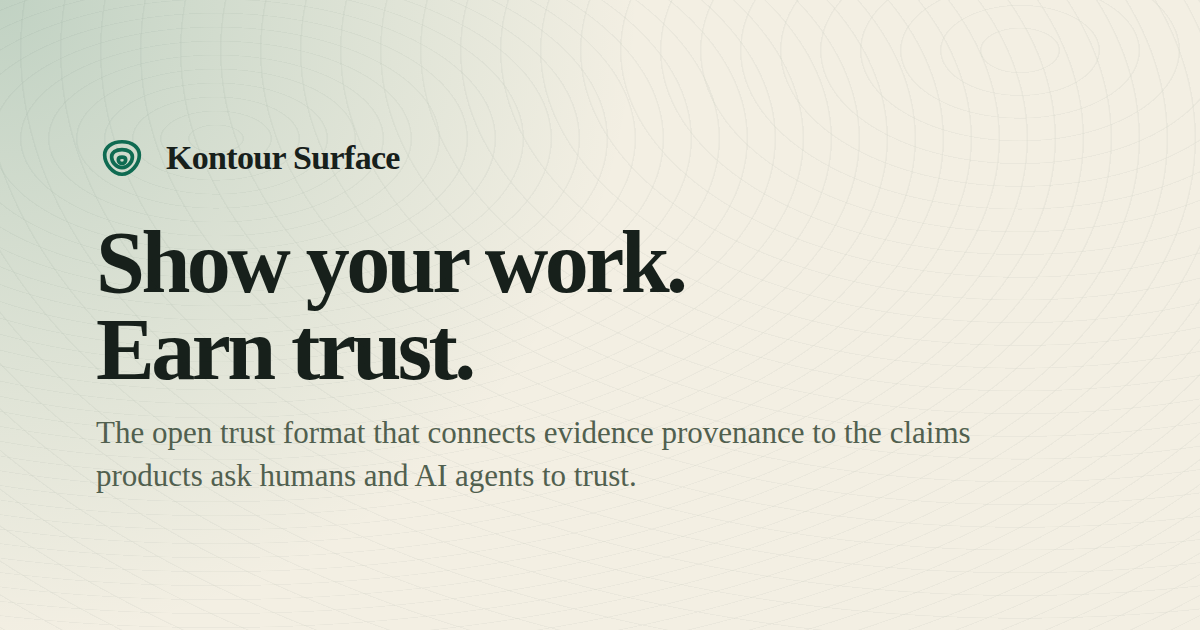
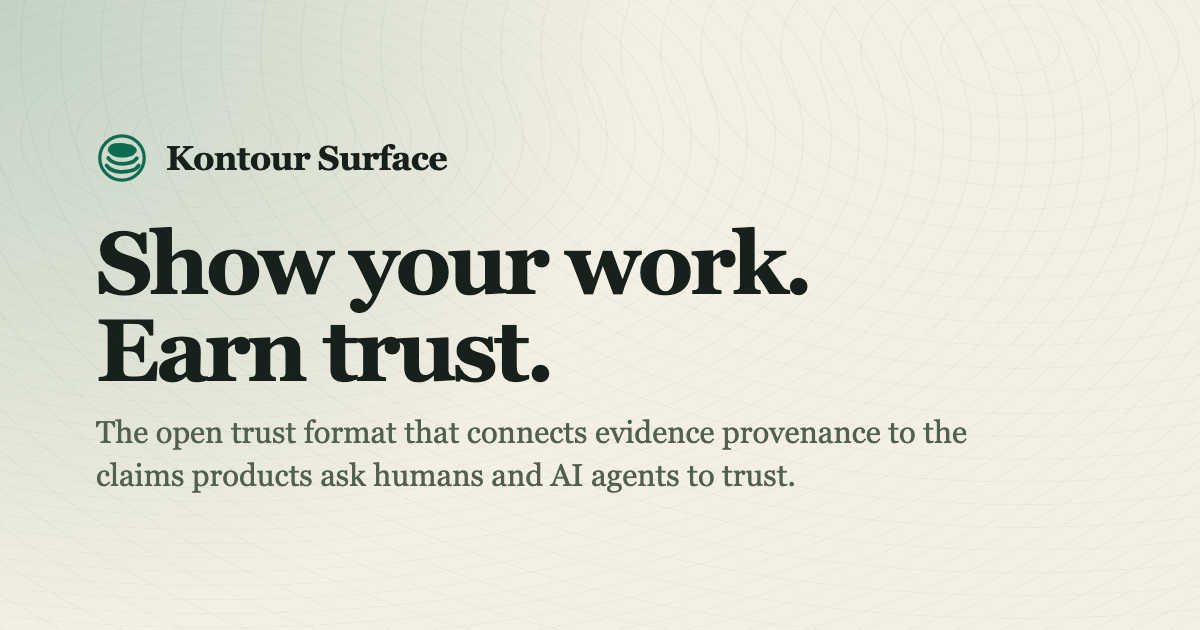
feat(brand): use the new Surface mark in the Open Graph card
The Open Graph card generator drew the same concentric contour mark from
the old site. It now reads icons/surface-badge.svg from the installed
@kontourai/ui: the mark renders at 52px there, and ui's DESIGN.md keeps
the badge variant for 32px and up. It keeps its one color (#0f6b52, at
least 4.4:1 on the card's tinted background), size and 18px gap to the
name, more than the quarter-height clear space.

The generator now exports its page and writes the card only when run
directly, so the surface-mark test can import it and assert that the
card's mark is exactly the installed badge's shapes.

og-image.png is regenerated. The card now renders in Georgia, as its
CSS specifies; the previous card was rendered where Georgia fell back to
another serif, so its text metrics differ as well as the mark.

Changed region(s): [[0.0617, 0.3619, 0.6783, 0.6032], [0.0617, 0.6635, 0.8017, 0.7841], [0.0617, 0.2111, 0.37, 0.3016]]

diff --git a/tests/surface-mark.test.ts b/tests/surface-mark.test.ts
@@ -4,16 +4,21 @@ import { readFile } from "node:fs/promises";
 import { resolve } from "node:path";
 import { pathToFileURL } from "node:url";
 
-// The viewer and the badge must draw the Surface mark the installed
-// @kontourai/ui ships, path for path, so a revert to an older mark fails here.
+// The viewer, the badge and the Open Graph card must draw the Surface mark the
+// installed @kontourai/ui ships, element for element, so a revert to an older
+// mark fails here.
 
 function pathElements(svg: string): string[] {
   return svg.match(/<path\b[^>]*\/>/g) ?? [];
 }
 
+function shapeElements(svg: string): string[] {
+  return svg.match(/<(?:path|circle)\b[^>]*\/>/g) ?? [];
+}
+
 function firstMatch(html: string, pattern: RegExp, name: string): RegExpExecArray {
   const match = pattern.exec(html);
-  assert.ok(match, `the viewer page has no ${name}`);
+  assert.ok(match, `the page has no ${name}`);
   return match;
 }
 
@@ -45,4 +50,15 @@ test("the Built with Surface badge draws the installed Surface mark in one color
 
   assert.deepEqual(pathElements(badge), expected);
   assert.match(badge, /<g color="#eafff6" fill="none" stroke="currentColor"/);
+});
+
+test("the Open Graph card generator draws the installed Surface badge mark", async () => {
+  const expected = shapeElements(await readFile("node_modules/@kontourai/ui/icons/surface-badge.svg", "utf8"));
+  assert.ok(expected.length > 0, "the installed @kontourai/ui icons/surface-badge.svg has no shapes");
+  // Importing the generator does not write the card: it renders only when run directly.
+  const { renderOgImageHtml } = await import(pathToFileURL(resolve("scripts/generate-og-image.mjs")).href) as { renderOgImageHtml: () => string };
+  const html = renderOgImageHtml();
+
+  const [, mark] = firstMatch(html, /<div class="brand">\s*(<svg\b[\s\S]*?<\/svg>)/, "brand mark in the Open Graph card");
+  assert.deepEqual(shapeElements(mark), expected);
 });
